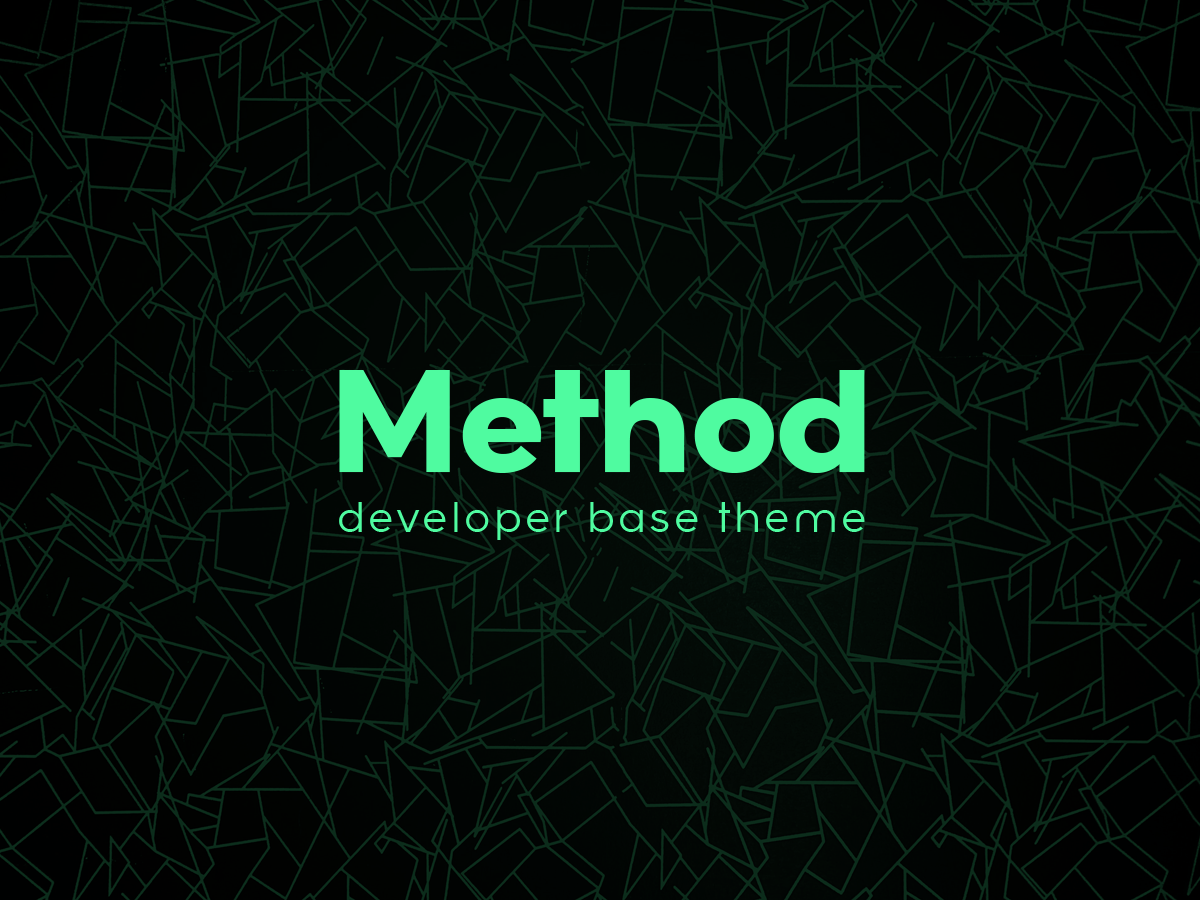
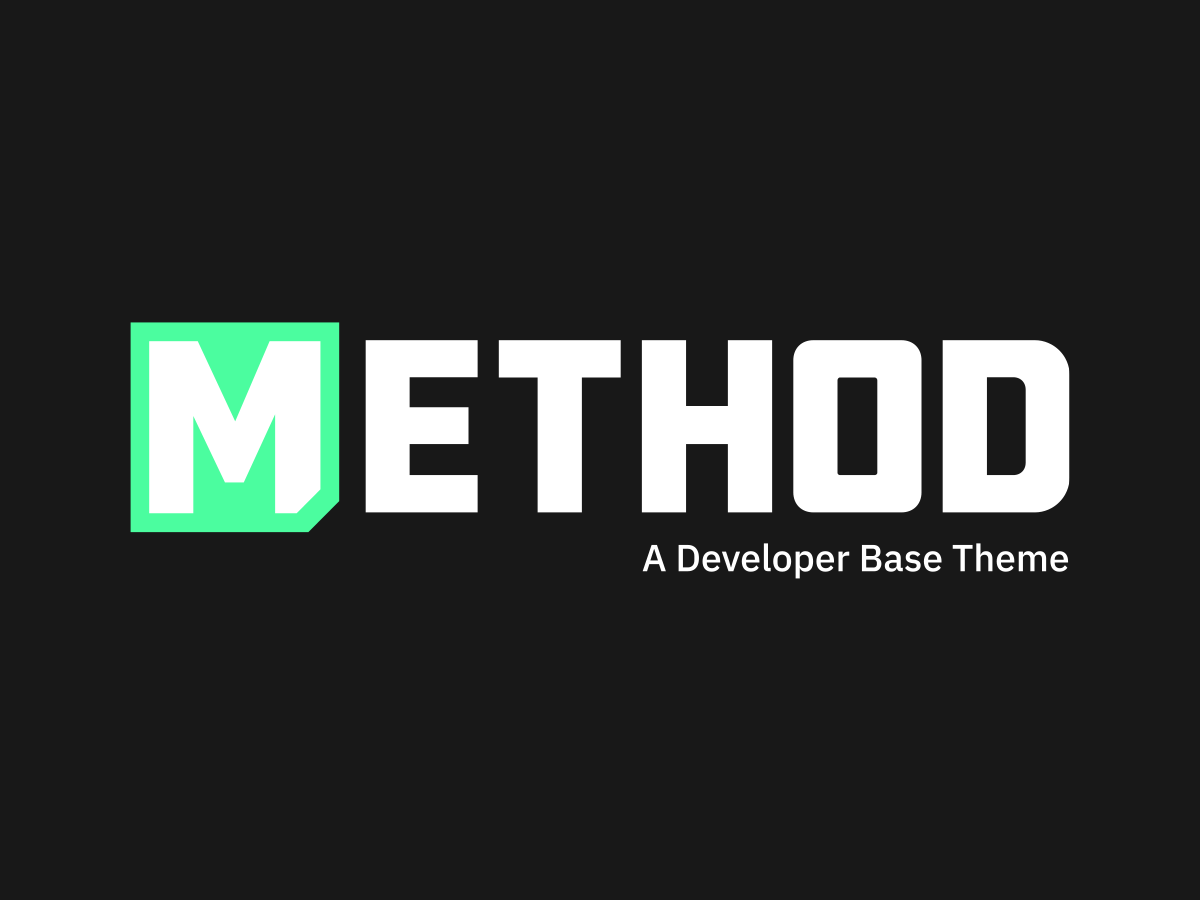
Changes for v1.3.2
Changes:
* ( lib/class-method-layout.php ) Fixed an issue in init_page() that could cause the post type to not be correctly set.
* ( README.md ) Updated copy and linked to the new Method wiki.
* Migrated to new theme branding.

Changed region(s): [[0.0925, 0.3422, 0.8942, 0.6533]]

diff --git a/login.css b/login.css
@@ -20,9 +20,9 @@ body.login input[type=text]:focus {
 }
 .login h1 a {
     background-image: url('assets/images/login-logo.svg') !important;
-    background-size: 250px 80px !important;
+    background-size: 250px 68px !important;
     width: 250px !important;
-    height: 80px !important;
+    height: 68px !important;
 }
 .message { 
 	background-color: #4BFD9F !important; 

diff --git a/style.css b/style.css
@@ -2,7 +2,7 @@
 Theme Name: Method
 Theme URI: https://github.com/pixelwatt/method
 Description: A barebones foundation for custom theme development.
-Version: 1.3.1
+Version: 1.3.2
 Author: Rob Clark
 Author URI: https://robclark.io/
 Tags: cmb2, bootstrap

diff --git a/lib/theme-setup.php b/lib/theme-setup.php
@@ -49,8 +49,8 @@ add_image_size( 'header_bg', 1400, 600, true );
 //-----------------------------------------------------
 
 function method_scripts() {
-	wp_enqueue_style( 'method', get_template_directory_uri() . '/theme.min.css', '', '1.3.1' );
-	wp_enqueue_script( 'method', get_template_directory_uri() . '/assets/js/scripts.min.js', array( 'jquery' ), '1.3.1', false );
+	wp_enqueue_style( 'method', get_template_directory_uri() . '/theme.min.css', '', '1.3.2' );
+	wp_enqueue_script( 'method', get_template_directory_uri() . '/assets/js/scripts.min.js', array( 'jquery' ), '1.3.2', false );
 
 
 }

diff --git a/lib/admin-customization.php b/lib/admin-customization.php
@@ -4,7 +4,7 @@ function method_admin_scripts() {
 	$wp_scripts = wp_scripts();
 	wp_enqueue_script( 'jquery-ui-dialog' );
     wp_enqueue_style( 'jquery-ui', 'https://ajax.googleapis.com/ajax/libs/jqueryui/' . $wp_scripts->registered['jquery-ui-core']->ver . '/themes/smoothness/jquery-ui.css', '', '', false );
-    wp_enqueue_style( 'method', get_template_directory_uri() . '/assets/css/admin-styles.css', '', '1.3.1' );
+    wp_enqueue_style( 'method', get_template_directory_uri() . '/assets/css/admin-styles.css', '', '1.3.2' );
 }
 
 add_action( 'admin_enqueue_scripts', 'method_admin_scripts' );

diff --git a/lib/class-method-layout.php b/lib/class-method-layout.php
@@ -73,8 +73,8 @@ abstract class Method_Layout {
 		$this->set_opts();
 		$this->attr['standalone'] = $standalone;
 		$this->attr['is_archive'] = false;
-		$this->attr['post_type']  = get_post_type( $this->id );
 		$this->id                 = $pid;
+		$this->attr['post_type']  = get_post_type( $this->id );
 		$this->meta               = get_post_meta( $this->id );
 
 		if ( 'page' == $this->attr['post_type'] ) {

diff --git a/README.md b/README.md
@@ -2,6 +2,10 @@
 
 ![Method Base Theme Banner](https://pixelwatt.com/assets/mbt_banner.jpg)
 
-This is the Method base theme. It's the base theme that I use as the foundation for all Wordpress projects that I build. This theme isn't meant to be a prebuilt, turn-key solution, but a foundation to efficiently build a fully-custom WordPress theme from. CMB2 should be installed alongside this theme. It is used for implementing this theme's options page, and several functions for integrating it with the page editor are included in functions.php.
+For extensive documentation on building with Method, check out the [new wiki](https://pixelwatt.github.io/method-wiki/docs/intro).
+
+Method is a base theme designed to facilitate custom theme-building at an accellerated pace, without sacrificing code efficiency or site performance. The theme uses Twitter's Bootstrap 5 framework as the foundation for building the frontend, while using the CMB2 framework on the backend to provide a workflow for programatically creating and configuring metaboxes for custom post editor options and the theme options page. CMB2 offers a wide variety of field types to choose from when building metaboxes, and allows you to create custom field types if needed.
+
+This theme was designed for building fully-customized solutions and is not intended to be a turn-key solution. Especially in reguards to the frontend, Method essentially provides you with a blank slate to efficiently build from. This theme is an optimal fit for projects that heavily utilize custom post meta and theme options (whether through theme mods or custom options), as it is specifically designed to reduce the number of database queries neccessary to utilize such data. Method was originally built to facilitate a workflow where preapproved design comps are converted into a functioning theme.
 
 To get the most out of this theme, it is highly recommended that you use the [Method Generator project](https://github.com/pixelwatt/method-generator) to generate a custom version of this theme compiled to meet your specific needs.
